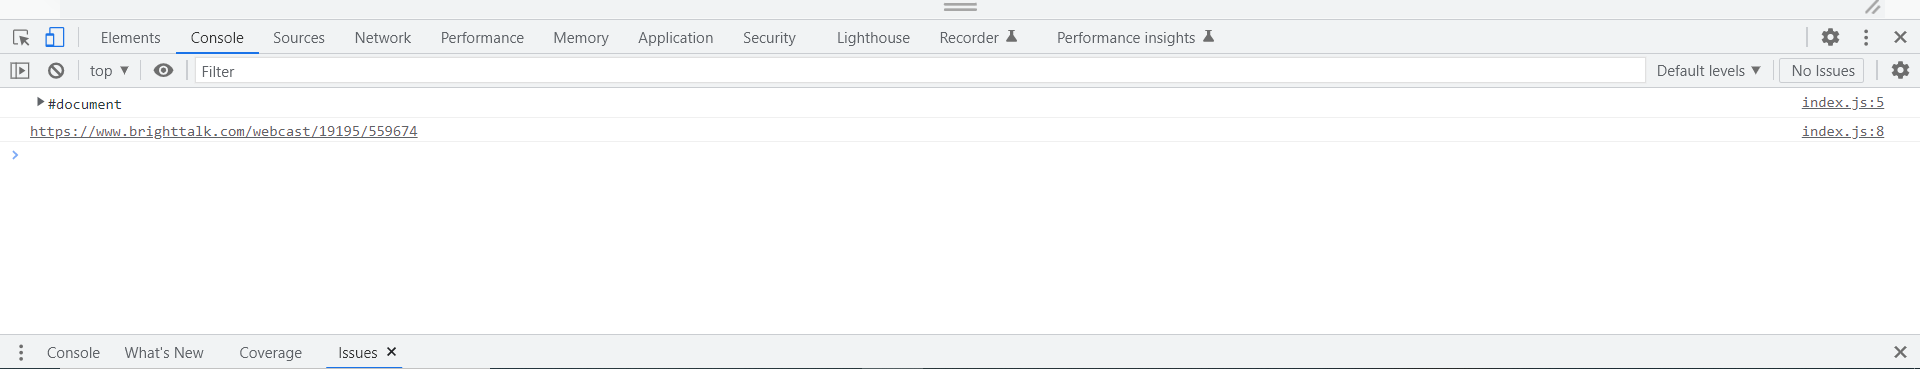
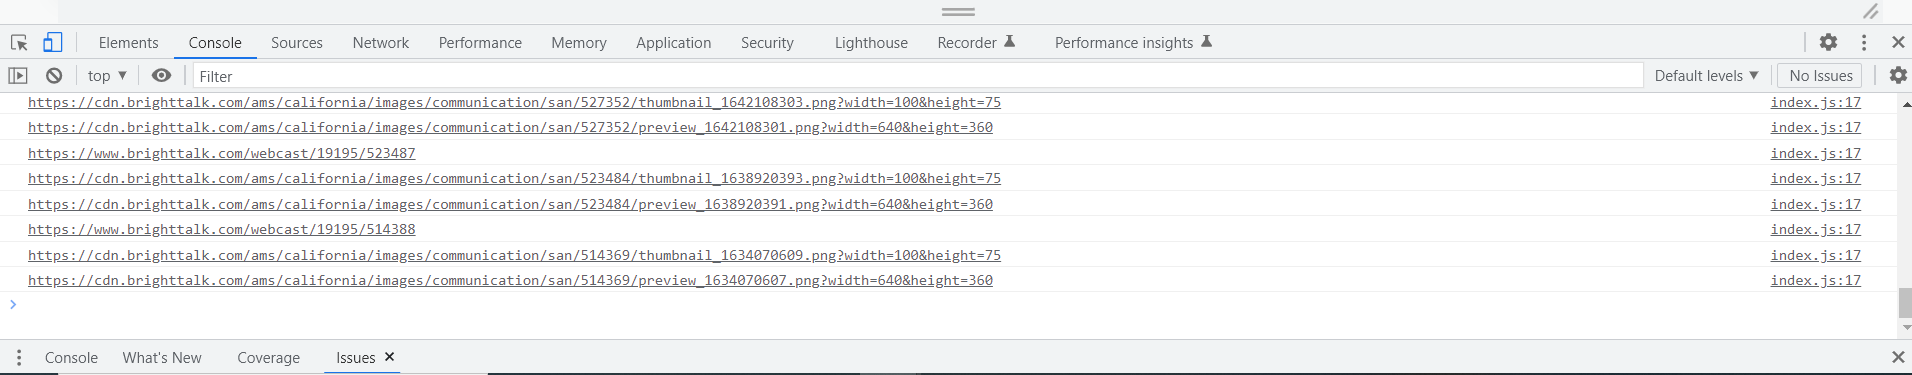
Updated README for href retrieval

diff --git a/README.md b/README.md
@@ -6,6 +6,7 @@
 * Successfully parsed the XML data.
 * XML data required an XML function (```document.evaluate()```) to retrieve relevant     information from attributes (such as ```href``` values) found within the feed element. Successfully passed fetched and parsed XML data into ```evaluate()``` function to retrieve node information. 
 * Found work-around for NS Resolver to direct XPath to correct node. Retrieved ```href``` values for ```links``` under ```entry``` node.
+* Accessed all ```href``` values that are attributes of ```links``` descended from ```entries```.
 
 
 ## Future Steps:
@@ -15,5 +16,5 @@
 
 
  ## Daily Screenshot
- * This image shows the XML parsed into the console.
+ * This image shows the href values logged to the console.
    ![day two image](./assets/img/day-2.PNG "Day Two")
